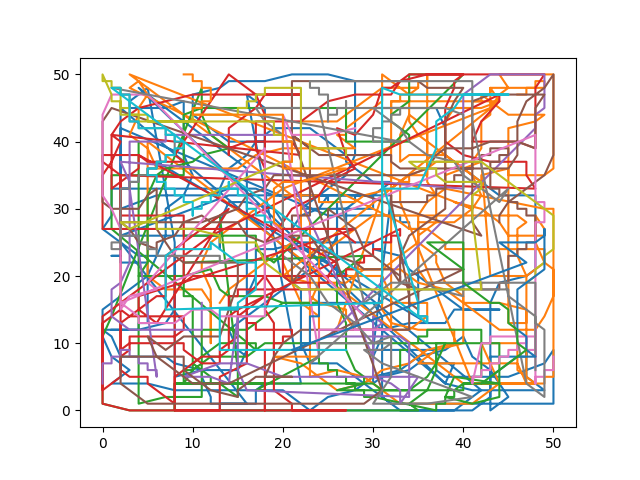
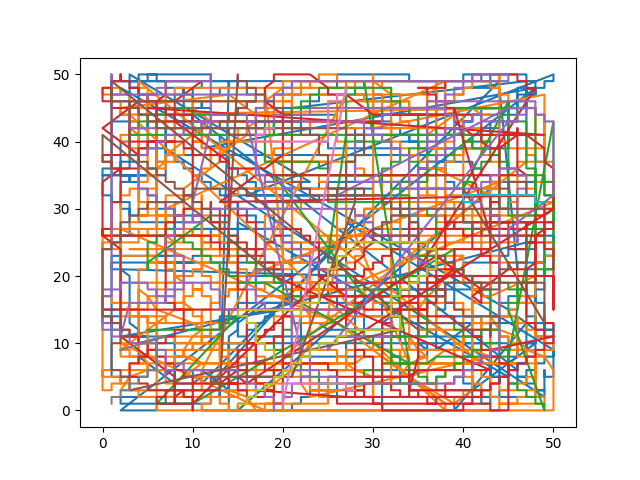
added size trait

diff --git a/natural_selection.py b/natural_selection.py
@@ -12,11 +12,12 @@ class Agent:
         self.y = y
         self.environment = environment
         self.satiated = False
-        self.energy = 15 # starting energy when agent is spawned
+        self.energy = 10 # starting energy when agent is spawned
         self.speed = 1
-        self.movement_cost = self.speed # 1/speed to get step cost, * speed^2 as biological limitation, add'l energy for add'l speed
-        self.food_reward = 10 # reward collected for consuming food
-        self.stationary_penalty = 1 # penalty for remaining stationary
+        self.size = 1
+        self.movement_cost = self.speed * (self.size ** 3)# 1/speed to get step cost, * speed^2 as biological limitation, add'l energy for add'l speed
+        self.food_reward = 15 # reward collected for consuming food
+        self.stationary_penalty = 5 # penalty for remaining stationary
 
     def manhattan(self, food):
         return (abs(self.x - food[0]) + abs(self.y - food[1]))
@@ -101,6 +102,7 @@ class Environment:
         self.remaining_food = []
         self.avg_energy = []
         self.avg_speed = []
+        self.avg_size = []
         self.positions = [[] for _ in range(num_agents)]
         self.food_positions = []
 
@@ -120,6 +122,11 @@ class Environment:
     def calculate_speed_avg(self):
         speed = [agent.speed for agent in self.agents]
         avg = sum(speed) / len(speed)
+        return avg
+    
+    def calculate_size_avg(self):
+        size = [agent.size for agent in self.agents]
+        avg = sum(size) / len(size)
         return avg
 
     # function that simulates one generation
@@ -147,15 +154,18 @@ class Environment:
         if len(self.agents) > 0:
             self.avg_energy.append(self.calculate_energy_avg())
             self.avg_speed.append(self.calculate_speed_avg())
+            self.avg_size.append(self.calculate_size_avg())
         else:
             self.avg_energy.append(0)
             self.avg_speed.append(0)
+            self.avg_size.append(0)
 
         # REALLOCATION OF SURVIVING AGENTS AND REPRODUCTION
         num_survivors = len(self.agents)
         new_agents = []
         # random mutation occurs with the following odds
         speed_boost = {0 : 10, 1 : 2, 2 : 1}
+        size_boost = {-0.05:1, 1:10, 0.05:1}
 
         for _ in range(num_survivors):
             # all surviving agents persist the next generation
@@ -163,14 +173,20 @@ class Environment:
             parent.x = random.randint(0, self.width)
             parent.y = random.randint(0, self.height)
             parent_speed = parent.speed
+            parent_size = parent.size
             new_parent = Agent(parent.x, parent.y, self)
             # all surviving agents will replicate
             new_parent.speed = parent_speed
+            new_parent.size = parent_size
             new_agents.append(new_parent)
             # speed of child randomly mutates
             speed = parent_speed + random.choices(list(speed_boost.keys()), weights=list(speed_boost.values()), k=1)[0]
+            size = parent_size * random.choices(list(size_boost.keys()), weights=list(size_boost.values()), k=1)[0]
+            if size <= 0.05:
+                size = 0.05
             child_agent = Agent(random.randint(0, self.width), random.randint(0, self.height), self)
             child_agent.speed = speed
+            child_agent.size = size
             new_agents.append(child_agent)
     
         self.agents = new_agents
@@ -179,16 +195,16 @@ class Environment:
         self.agent_counts.append(len(self.agents))
         
         # All agents movement plotted
-        mypath = os.path.dirname(os.path.abspath(__file__)) + '/'
-        if len(self.agents) > 0:
+        #mypath = os.path.dirname(os.path.abspath(__file__)) + '/'
+        #if len(self.agents) > 0:
             # plot the movement of all agents at each time step
-            fig, ax = plt.subplots()
-            for i in range(len(self.positions)):
-                x_values = [x[0] for x in self.positions[i]]
-                y_values = [y[1] for y in self.positions[i]]
-                ax.plot(x_values, y_values)
+        #    fig, ax = plt.subplots()
+        #   for i in range(len(self.positions)):
+        #        x_values = [x[0] for x in self.positions[i]]
+        #        y_values = [y[1] for y in self.positions[i]]
+        #        ax.plot(x_values, y_values)
             
-            fig.savefig(mypath + 'agents_movement.png')
+        #    fig.savefig(mypath + 'agents_movement.png')
         
         return self.agents, self.food_grid, self.positions
 
@@ -290,8 +306,8 @@ class Environment:
 # DRIVER ~~~~~~~~~~~~~~~~~~~~~~~~~~~~~~~~~~~~~~~~~~~~~~~~~~~~
 def simulate(iterations, num_agents, num_food) :
     env = Environment(50, 50, num_agents, num_food)
-    env.animate_generation(env, iterations, num_agents)
-    env.animate_agent(env, num_agents)
+    #env.animate_generation(env, iterations, num_agents)
+    #env.animate_agent(env, num_agents)
     for i in range(iterations) :
         print("Iteration Number " + str(i+1))
         print("Total Population: " + str(env.agent_counts[i]))
@@ -299,4 +315,4 @@ def simulate(iterations, num_agents, num_food) :
         
         if i == iterations - 1 :
             print(env.agent_counts)
-            return(env.agent_counts, env.avg_energy, env.avg_speed)
+            return(env.agent_counts, env.avg_energy, env.avg_speed, env.avg_size)

diff --git a/plot.py b/plot.py
@@ -7,15 +7,17 @@ import os
 # 1. number of total generations to run
 # 2. number of agents at start of simulation
 # 3. number of food items for agents to consume at each generation
-population, food, speed = simulate(20, 10, 50)
+population, food, speed, size = simulate(20, 10, 50)
 
-fig, axs = plt.subplots(2)
-fig.suptitle("Agent Population and Speed Over Time")
+fig, axs = plt.subplots(3)
+fig.suptitle("Agent Population Speed, and Size Over Time")
 axs[0].plot(population)
 axs[0].set(ylabel="Population of Agents", xlabel="Generations")
 axs[1].plot(speed)
 axs[1].set(ylabel="Average Agent Speed", xlabel="Generations")
+axs[2].plot(size)
+axs[2].set(ylabel="Average Agent Size", xlabel="Generations")
 
-mypath = os.path.dirname(os.path.abspath(__file__)) + '/'
-fig.savefig(mypath + "iteration_plot.png")
+#mypath = os.path.dirname(os.path.abspath(__file__)) + '/'
+#fig.savefig(mypath + "iteration_plot.png")
 plt.show()
